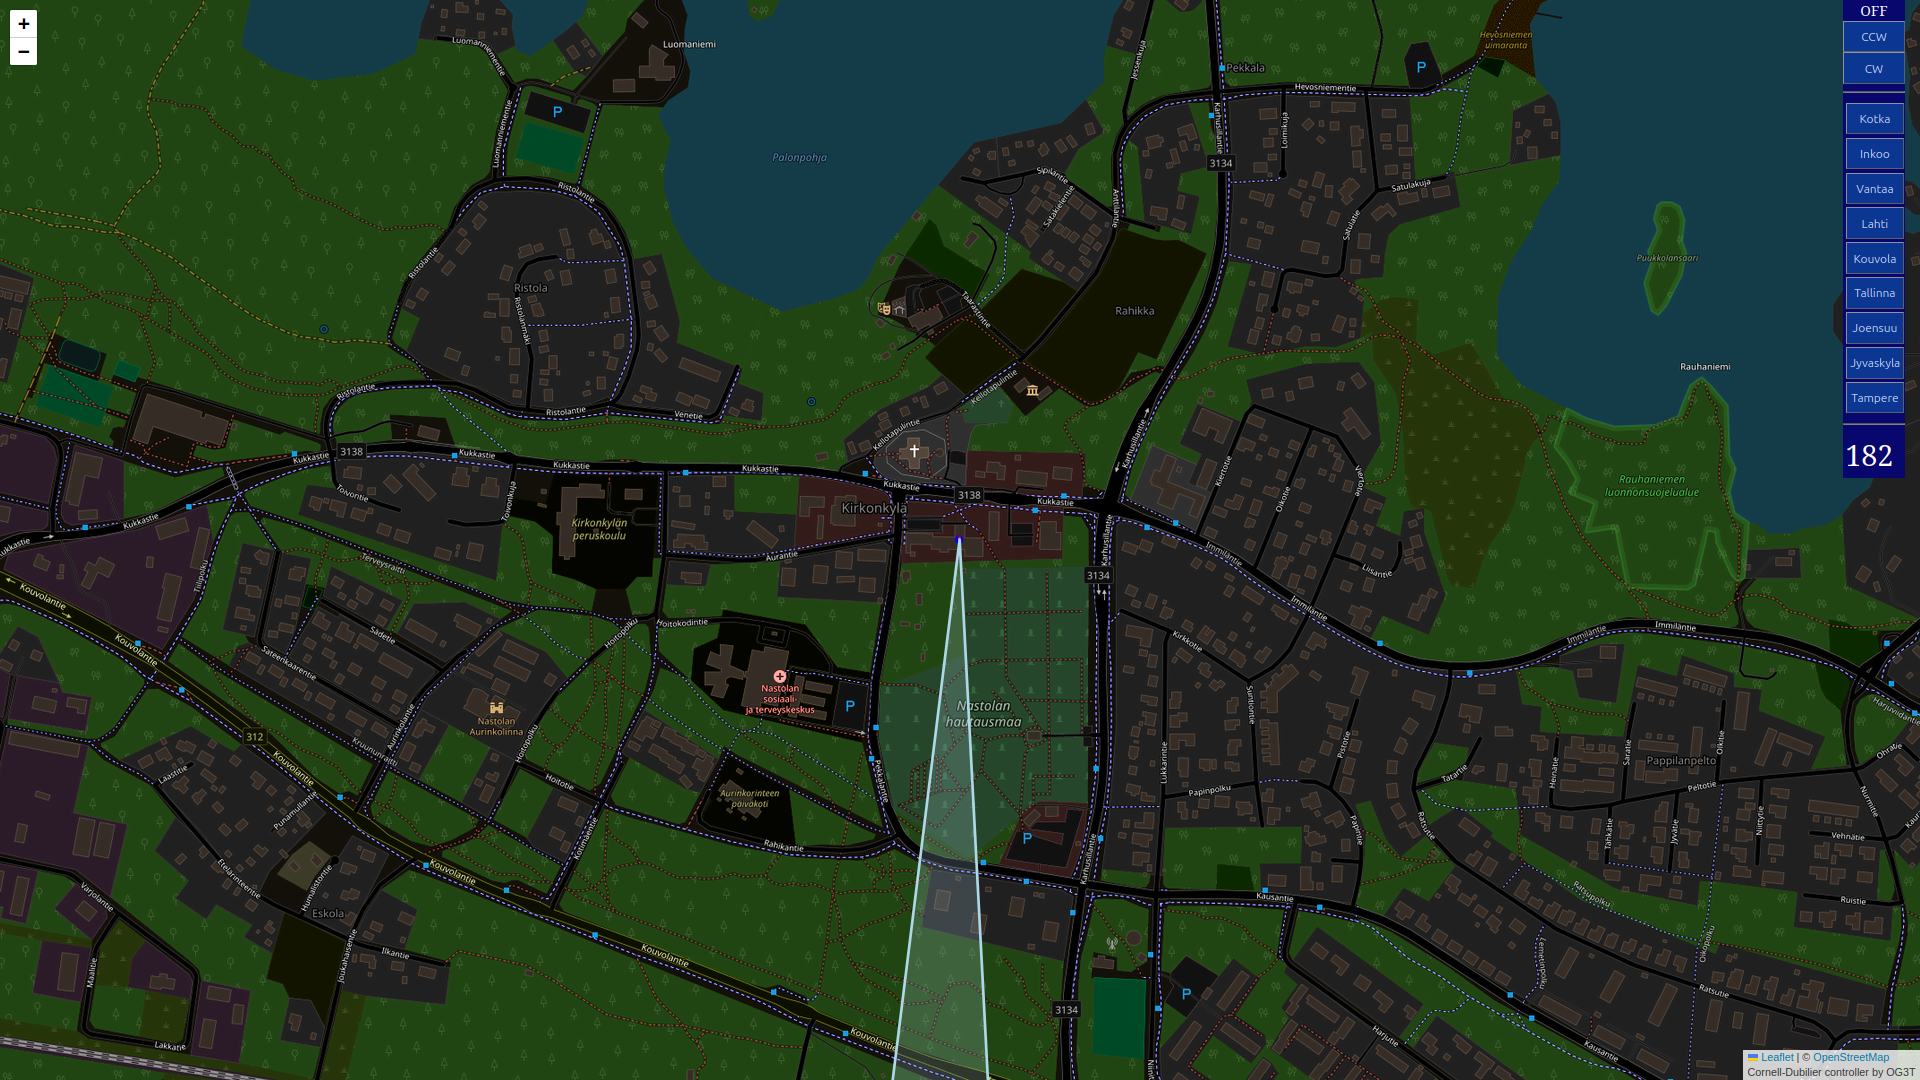
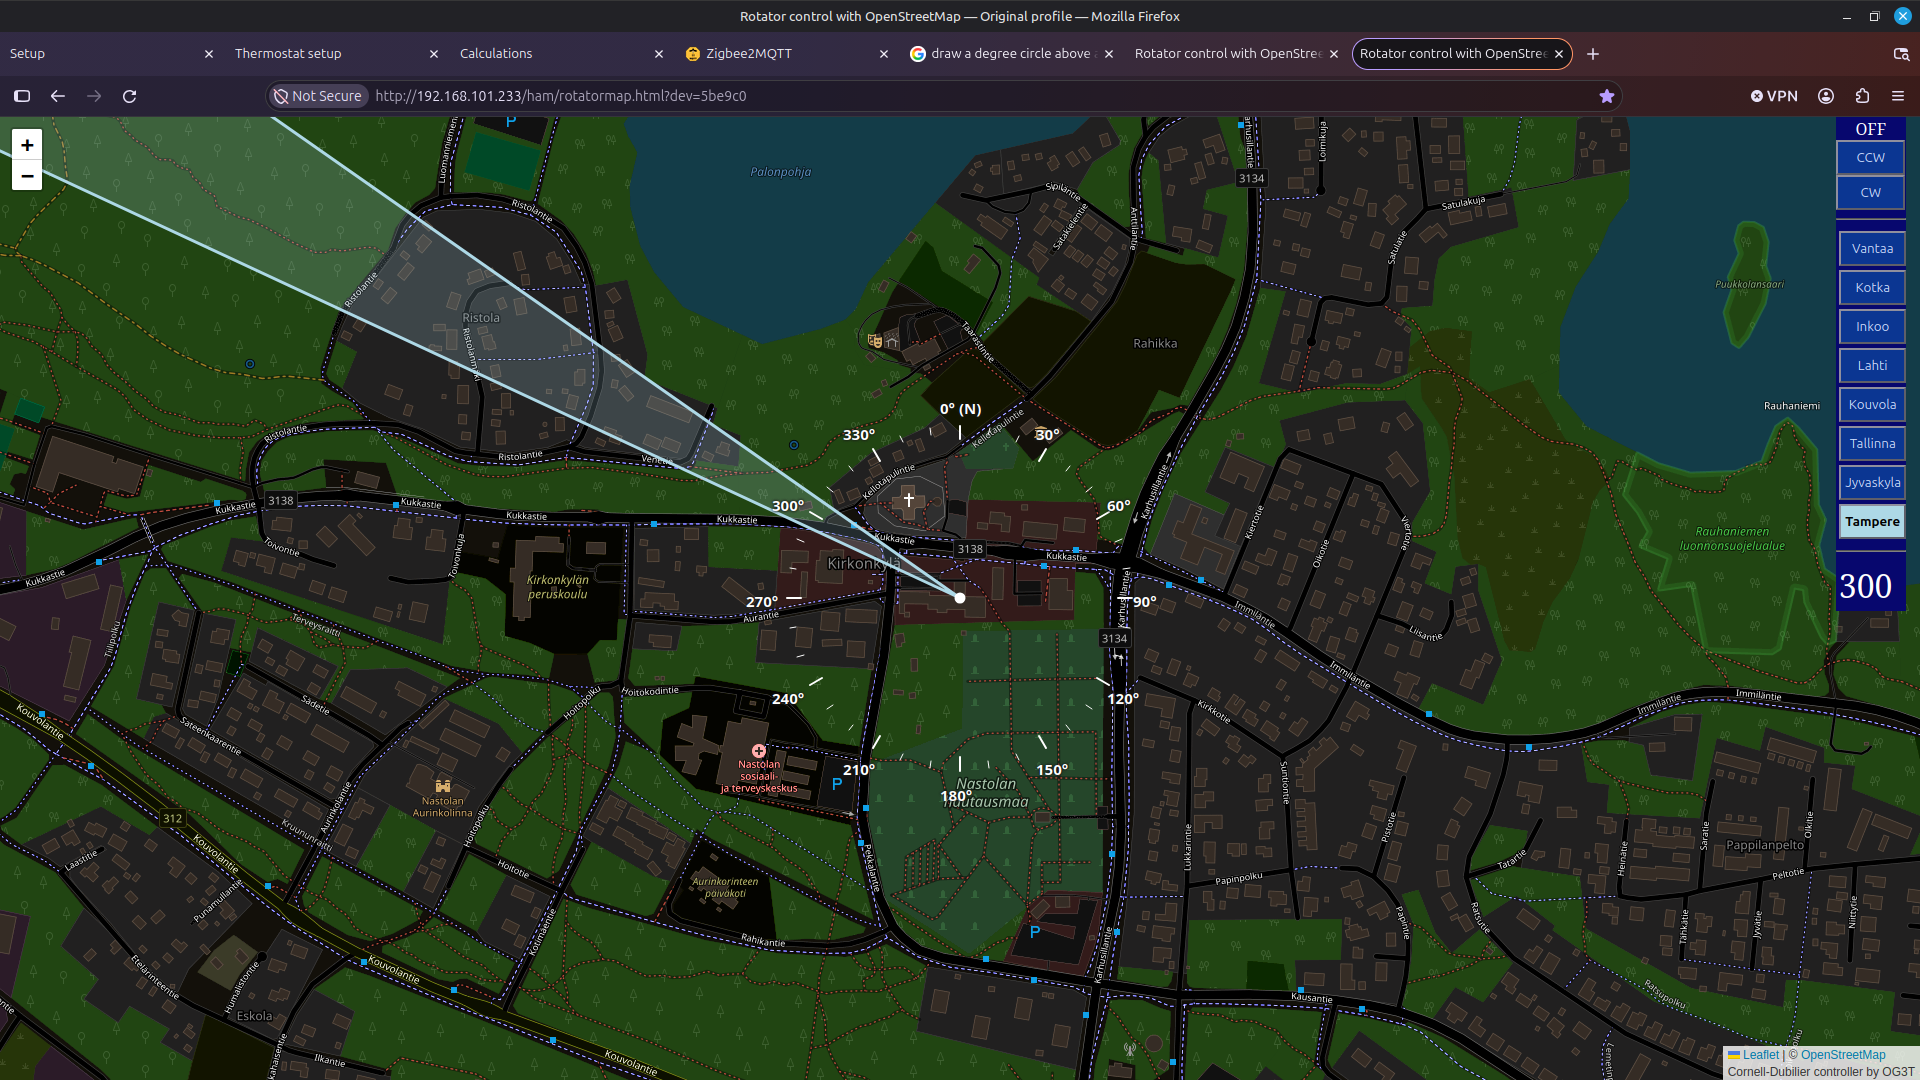
Added compass crown around the homeposition.

diff --git a/html/rotatormap.html b/html/rotatormap.html
@@ -24,6 +24,16 @@
 			height: 100%;
 			width: 100vw;
 		}
+		.degree-label {
+			font-family: sans-serif;
+			font-size: 15px;
+			font-weight: bold;
+			color: #ffffff;
+			text-shadow: 0 0 3px #1a1a1a, 0 0 3px #1a1a1a;
+			text-align: center;
+			white-space: nowrap;
+			pointer-events: none;
+		}
 		button {
 			width: 99%;
 			height: 35px; 
@@ -92,6 +102,7 @@
 	var reconnectTimeout = 10000;
 	var homeLat = 60.947784; // Initial antenna position is Nastola
 	var homeLng = 25.930342; // municipal building. Demolition is going now...
+	var decrOverlayGroup;
 
 	function calculateAzimuth(lat1, lon1, lat2, lon2) {
 		// Convert degrees to radians
@@ -151,29 +162,75 @@
 
 	function zoom2beamLen(zoomLevel)
 	{
-		var meters = [2500000,
-		              2500000,
+		var meters = [9500000,
+		              8500000,
+					  7500000,
+					  5500000,
 					  2500000,
-					  2500000,
-					  1900000,
 		              1000000,
-					   600000,
-					   350000,
+					   700000,
+					   400000,
 					   250000,
 					   150000,
 					   70000,
 					   40000,
 					   15000,
 					   8000,
-					   6000,
+					   5000,
 					   2000,
-					   1500,
+					   1200,
 					   450,
 					   250];
 		console.log(zoomLevel,meters[zoomLevel-1]);
 		return meters[zoomLevel-1];
 	}
 	
+	function drawDegreeCircle(map, center, radiusMeters, stepDeg = 10, labelStepDeg = 30)
+	{
+      const circlePoints = [];
+
+      // Center anchor marker
+      L.circleMarker(center, {
+        radius: 4,
+        color: '#ffffff',
+        fillColor: '#ffffff',
+        fillOpacity: 1
+      }).addTo(decrOverlayGroup);
+
+      // Generate circle ring, ticks, and labels
+      for (let deg = 0; deg < 360; deg += 1) {
+        const outerPt = getDestinationPoint(center[0], center[1], deg, radiusMeters);
+        circlePoints.push(outerPt);
+
+        // Add tick marks at every stepDeg
+        if (deg % stepDeg === 0) {
+          const isMajor = deg % labelStepDeg === 0;
+          const tickLength = isMajor ? radiusMeters * 0.08 : radiusMeters * 0.04;
+          const innerPt = getDestinationPoint(center[0], center[1], deg, radiusMeters - tickLength);
+
+          L.polyline([innerPt, outerPt], {
+            color: '#ffffff',
+            weight: isMajor ? 2 : 1,
+            interactive: false
+          }).addTo(decrOverlayGroup);
+        }
+
+        // Add degree labels at every labelStepDeg
+        if (deg % labelStepDeg === 0) {
+          const labelPt = getDestinationPoint(center[0], center[1], deg, radiusMeters * 1.12);
+          const labelText = deg === 0 ? '0° (N)' : `${deg}°`;
+
+          const icon = L.divIcon({
+            className: 'degree-label',
+            html: labelText,
+            iconSize: 10,
+            iconAnchor: [20, 8]
+          });
+
+          L.marker(labelPt, { icon, interactive: false }).addTo(decrOverlayGroup);
+        }
+      }
+	}
 
 	function buildPolygon(length, angle)
 	{
@@ -251,9 +308,11 @@
 		currZoom = zoomLevel;
 
 		length = zoom2beamLen(zoomLevel);
-		console.log("length = ", length);
 		if (targetVisible) targetPolygon.setLatLngs(buildPolygon(length, currentAngle));
 		rotatorPolygon.setLatLngs(buildPolygon(length, parseInt($('#beamAngle').html())));
+		map.removeLayer(decrOverlayGroup);
+		decrOverlayGroup = L.layerGroup().addTo(map);
+		drawDegreeCircle(map, [homeLat, homeLng], length / 8, 10, 30);
 	}
 
 	function turnBeam(angle) {
@@ -314,10 +373,12 @@
 		console.log('zoomlevel is', e.target._zoom);
 	});
 
-
+	decrOverlayGroup = L.layerGroup().addTo(map);
 	targetPolygon = createBeam('red', 'This is a target direction.',5);
 	rotatorPolygon = createBeam('lightblue', 'Not turning, i am close to the beam.',zoom2beamLen(currZoom));
 	homeCircle = createCircle('lightblue', homeLat, homeLng);
+	decrOverlayGroup = L.layerGroup().addTo(map);
+	drawDegreeCircle(map, [homeLat, homeLng], 200, 10, 30);
 
     function MQTTconnect() 
 	{
